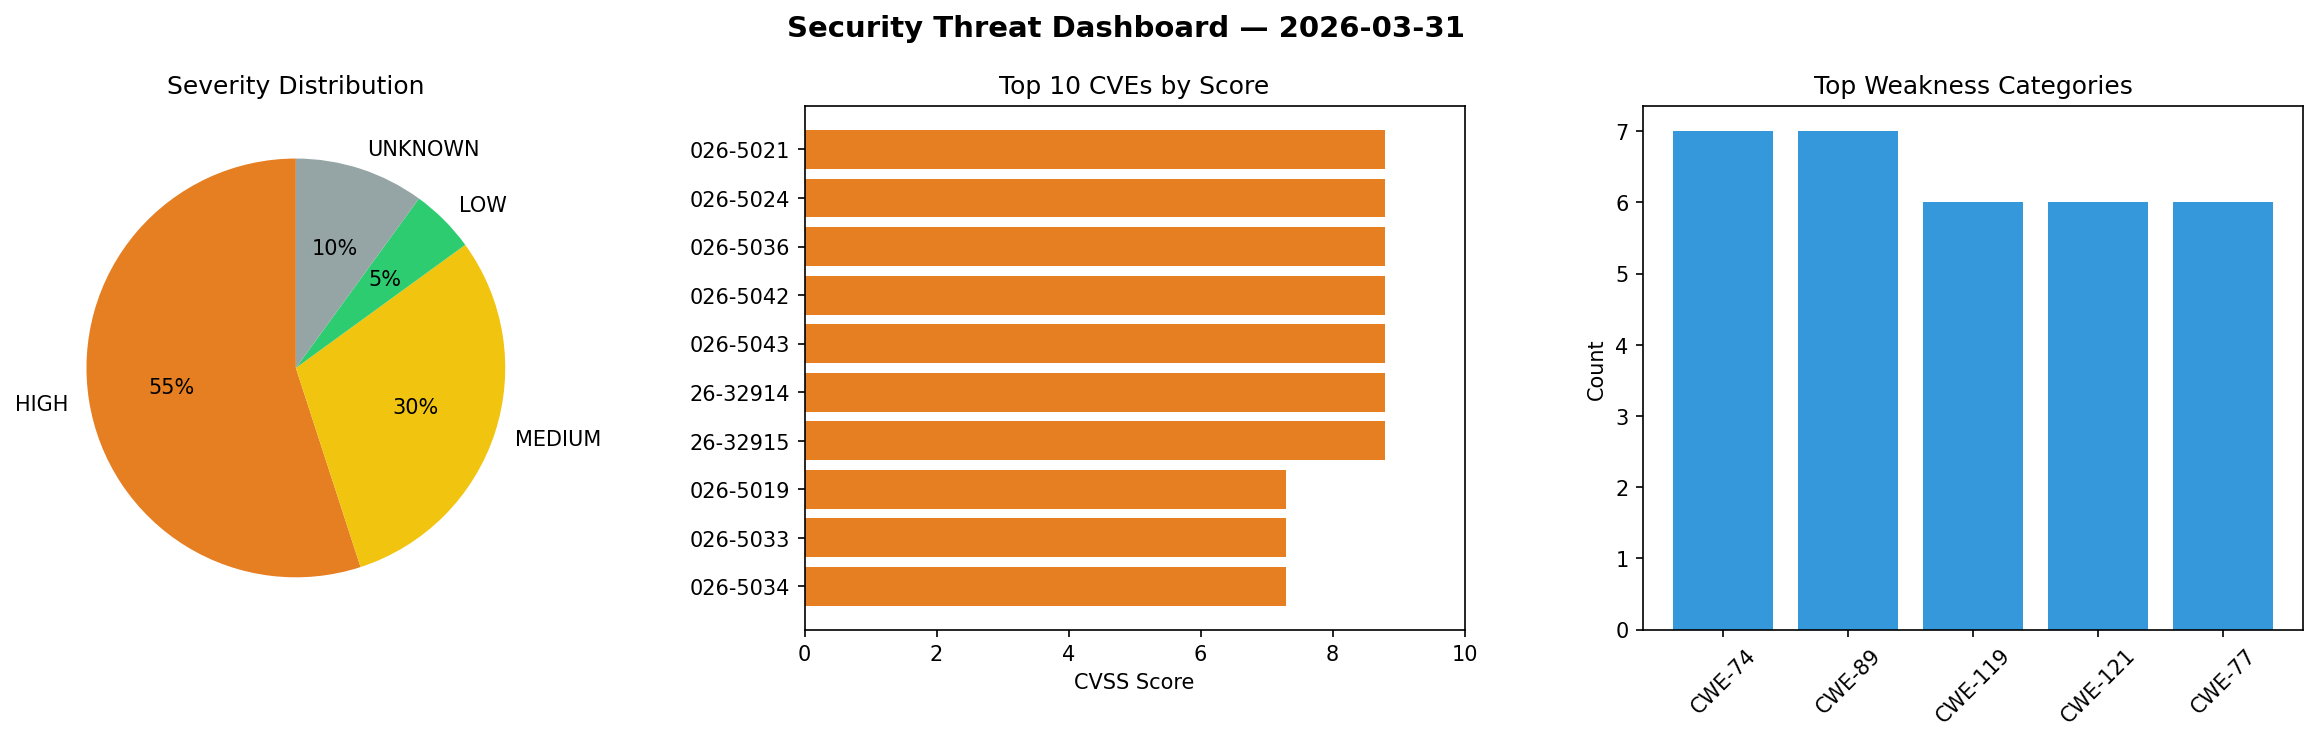
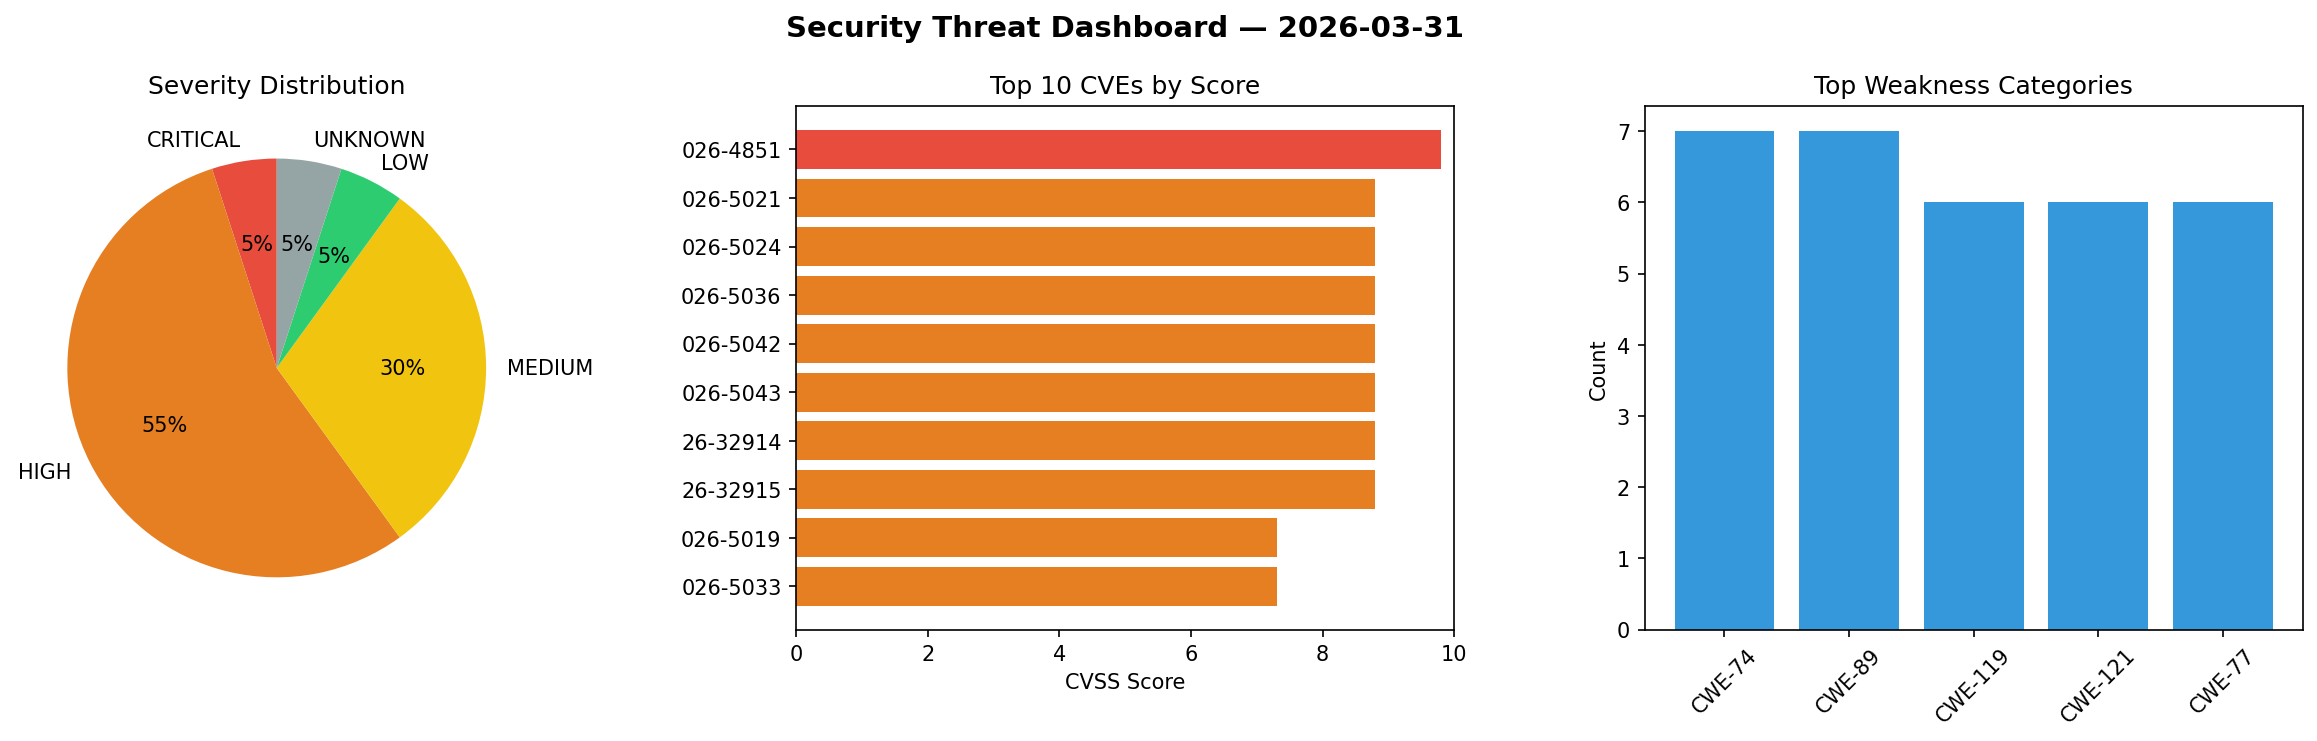
daily-experiments: security scan 2026-03-31T21:00

diff --git a/logs/2026-03-31.md b/logs/2026-03-31.md
@@ -1,6 +1,6 @@
 # Security Scan Report — 2026-03-31
 
-**Scan ID:** `e10608bc17` | **CVEs:** 20 | **Threat Index:** 342.3
+**Scan ID:** `3733c41a87` | **CVEs:** 20 | **Threat Index:** 381.5
 
 ![Dashboard](2026-03-31_dashboard.png)
 
@@ -10,20 +10,21 @@
 
 | Metric | Value |
 |--------|-------|
-| Threat Index | 342.3 |
-| Critical CVEs | 0 |
+| Threat Index | 381.5 |
+| Critical CVEs | 1 |
+| CRITICAL | 1 |
 | HIGH | 11 |
 | MEDIUM | 6 |
 | LOW | 1 |
-| UNKNOWN | 2 |
+| UNKNOWN | 1 |
 
 ## Delta vs Yesterday
 
 | Metric | Today | Yesterday | Change |
 |--------|-------|-----------|--------|
 | total_cves | 20 | 20 | ➡ 0.0% |
-| threat_index | 342.3 | 337.5 | 📈 1.4% |
-| critical_count | 0 | 0 | ➡ 0% |
+| threat_index | 381.5 | 337.5 | 📈 13.0% |
+| critical_count | 1 | 0 | ➡ 0% |
 
 ## Top Weakness Categories
 
@@ -39,6 +40,7 @@
 
 | CVE ID | Score | Severity | Description |
 |--------|-------|----------|-------------|
+| CVE-2026-4851 | 9.8 | CRITICAL | GRID::Machine versions through 0.127 for Perl allows arbitrary code execution vi... |
 | CVE-2026-5021 | 8.8 | HIGH | A flaw has been found in Tenda F453 1.0.0.3. This affects the function fromPPTPU... |
 | CVE-2026-5024 | 8.8 | HIGH | A vulnerability was found in D-Link DIR-513 1.10. This issue affects the functio... |
 | CVE-2026-5036 | 8.8 | HIGH | A vulnerability was found in Tenda 4G06 04.06.01.29. This vulnerability affects ... |
@@ -53,4 +55,3 @@
 | CVE-2026-2602 | 6.4 | MEDIUM | The Twentig plugin for WordPress is vulnerable to Stored Cross-Site Scripting vi... |
 | CVE-2026-5020 | 6.3 | MEDIUM | A vulnerability was detected in Totolink A3600R 4.1.2cu.5182_B20201102. Affected... |
 | CVE-2026-5030 | 6.3 | MEDIUM | A vulnerability has been found in Totolink NR1800X 9.1.0u.6279_B20210910. This i... |
-| CVE-2026-5023 | 5.3 | MEDIUM | A vulnerability has been found in DeDeveloper23 codebase-mcp up to 3ec749d237dd8... |
